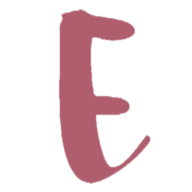
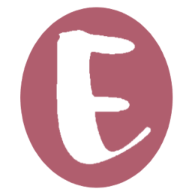
Updates
new favicon, updated resume

diff --git a/css/resume.min.css b/css/resume.min.css
@@ -2,4 +2,4 @@
  * Start Bootstrap - Resume v5.0.6 (https://startbootstrap.com/template-overviews/resume)
  * Copyright 2013-2019 Start Bootstrap
  * Licensed under MIT (https://github.com/BlackrockDigital/startbootstrap-resume/blob/master/LICENSE)
- */body{font-family:'Roboto Mono', 'Cutive Mono','Lucida Console',Monaco,monospace;font-size:1.2rem;padding-top:54px;color:#868e96}@media (min-width:992px){body{padding-top:0;padding-left:17rem}}h1,h2,h3,h4,h5{font-family:'Saira Extra Condensed',-apple-system,BlinkMacSystemFont,'Segoe UI',Roboto,'Helvetica Neue',Arial,sans-serif,'Apple Color Emoji','Segoe UI Emoji','Segoe UI Symbol','Noto Color Emoji';font-weight:700;text-align:center;color:#343a40}h6{font-family:'Cutive Mono', monospace;font-weight:700;text-align:left;text-transform:lowercase;color:#5b4f53;font-size:1.75rem;}h1{font-size:6rem;line-height:5.5rem}h2{font-size:3.5rem}h3{font-size:2rem}.icon{font-size: 1.4rem;color:#369c88;}p.lead{font-size:1.15rem;font-weight:400}.accent{color: #369c88;}.main{color: #9c364a;}.subheading{color:#5b4f53;text-transform:uppercase;font-weight:500;font-family:'Saira Extra Condensed',-apple-system,BlinkMacSystemFont,'Segoe UI',Roboto,'Helvetica Neue',Arial,sans-serif,'Apple Color Emoji','Segoe UI Emoji','Segoe UI Symbol','Noto Color Emoji';font-size:2rem}.social-icons a{display:inline-block;height:3.5rem;width:3.5rem;background-color:#495057;color:#fff!important;border-radius:100%;text-align:center;font-size:1.5rem;line-height:3.5rem;margin-right:1rem}.social-icons a:last-child{margin-right:0}.social-icons a:hover{background-color:#369c88}.dev-icons{font-size:3rem}.dev-icons .list-inline-item i:hover{color:#369c88}#sideNav .navbar-nav .nav-item .nav-link{font-weight:800;letter-spacing:.05rem;text-transform:uppercase}#sideNav .navbar-toggler:focus{outline-color:#B05E6E}@media (min-width:992px){#sideNav{text-align:center;position:fixed;top:0;left:0;display:-webkit-box;display:-ms-flexbox;display:flex;-webkit-box-orient:vertical;-webkit-box-direction:normal;-ms-flex-direction:column;flex-direction:column;width:17rem;height:100vh}#sideNav .navbar-brand{display:-webkit-box;display:-ms-flexbox;display:flex;margin:auto auto 0;padding:.5rem}#sideNav .navbar-brand .img-profile{max-width:10rem;max-height:10rem;border:.5rem solid rgba(255,255,255,.2)}#sideNav .navbar-collapse{display:-webkit-box;display:-ms-flexbox;display:flex;-webkit-box-align:start;-ms-flex-align:start;align-items:flex-start;-webkit-box-flex:0;-ms-flex-positive:0;flex-grow:0;width:100%;margin-bottom:auto}#sideNav .navbar-collapse .navbar-nav{-webkit-box-orient:vertical;-webkit-box-direction:normal;-ms-flex-direction:column;flex-direction:column;width:100%}#sideNav .navbar-collapse .navbar-nav .nav-item{display:block}#sideNav .navbar-collapse .navbar-nav .nav-item .nav-link{display:block}}section.resume-section{padding-top:5rem!important;padding-bottom:5rem!important;max-width:75rem}section.resume-section .resume-item .resume-date{min-width:none}@media (min-width:768px){section.resume-section{min-height:100vh}section.resume-section .resume-item .resume-date{min-width:18rem}}@media (min-width:992px){section.resume-section{padding-top:3rem!important;padding-bottom:3rem!important}}.bg-primary{background-color:#9c364a!important}.text-primary{color:#9c364a!important}a{color:#9c364a}a:active,a:focus,a:hover{color:#f95777}
+ */body{font-family:'Roboto Mono', 'Cutive Mono','Lucida Console',Monaco,monospace;font-size:1.2rem;padding-top:54px;color:#868e96}@media (min-width:992px){body{padding-top:0;padding-left:17rem}}h1,h2,h3,h4,h5{font-family:'Saira Extra Condensed',-apple-system,BlinkMacSystemFont,'Segoe UI',Roboto,'Helvetica Neue',Arial,sans-serif,'Apple Color Emoji','Segoe UI Emoji','Segoe UI Symbol','Noto Color Emoji';font-weight:700;text-align:center;color:#343a40}h6{font-family:'Cutive Mono', monospace;font-weight:700;text-align:left;text-transform:lowercase;color:#5b4f53;font-size:1.75rem;}h1{font-size:6rem;line-height:5.5rem}h2{font-size:3.5rem}h3{font-size:2rem}.icon{font-size: 1.4rem;color:#369c88;}p.lead{font-size:1.15rem;font-weight:400}.accent{color: #369c88;}.main{color: #9c364a;}.subheading{color:#5b4f53;text-transform:uppercase;font-weight:500;font-family:'Saira Extra Condensed',-apple-system,BlinkMacSystemFont,'Segoe UI',Roboto,'Helvetica Neue',Arial,sans-serif,'Apple Color Emoji','Segoe UI Emoji','Segoe UI Symbol','Noto Color Emoji';font-size:2rem}.social-icons a{display:inline-block;height:3.5rem;width:3.5rem;background-color:#495057;color:#fff!important;border-radius:100%;text-align:center;font-size:1.5rem;line-height:3.5rem;margin-right:1rem}.social-icons a:last-child{margin-right:0}.social-icons a:hover{background-color:#369c88}.dev-icons{font-size:3rem}.dev-icons .list-inline-item i:hover{color:#369c88}#sideNav .navbar-nav .nav-item .nav-link{font-weight:800;letter-spacing:.05rem;text-transform:uppercase}#sideNav .navbar-toggler:focus{outline-color:#B05E6E}@media (min-width:992px){#sideNav{text-align:center;position:fixed;top:0;left:0;display:-webkit-box;display:-ms-flexbox;display:flex;-webkit-box-orient:vertical;-webkit-box-direction:normal;-ms-flex-direction:column;flex-direction:column;width:17rem;height:100vh}#sideNav .navbar-brand{display:-webkit-box;display:-ms-flexbox;display:flex;margin:auto auto 0;padding:.5rem}#sideNav .navbar-brand .img-profile{max-width:10rem;max-height:10rem;border:.5rem solid rgba(255,255,255,.2)}#sideNav .navbar-collapse{display:-webkit-box;display:-ms-flexbox;display:flex;-webkit-box-align:start;-ms-flex-align:start;align-items:flex-start;-webkit-box-flex:0;-ms-flex-positive:0;flex-grow:0;width:100%;margin-bottom:auto}#sideNav .navbar-collapse .navbar-nav{-webkit-box-orient:vertical;-webkit-box-direction:normal;-ms-flex-direction:column;flex-direction:column;width:100%}#sideNav .navbar-collapse .navbar-nav .nav-item{display:block}#sideNav .navbar-collapse .navbar-nav .nav-item .nav-link{display:block}}section.resume-section{padding-top:5rem!important;padding-bottom:5rem!important;max-width:75rem}section.resume-section .resume-item .resume-date{min-width:none}@media (min-width:768px){section.resume-section{min-height:100vh}section.resume-section .resume-item .resume-date{min-width:18rem}}@media (min-width:992px){section.resume-section{padding-top:3rem!important;padding-bottom:3rem!important}}.bg-primary{background-color:#9c364a!important}.text-primary{color:#9c364a!important}a{color:#9c364a}a:active,a:focus,a:hover{color:#f95777}.typewriter {overflow: hidden; /* hide letters */border-right: .1em solid transparent; /* cursor */white-space: nowrap;animation:typing 3s steps(15, end),blinking .5s step-end 6;}@keyframes typing {0% {width: 0;}25% {width:4em;}55% {width:4em;}85% {width:11em;}100% {width: 11em;}}.typewriter1 {overflow: hidden; /* hide letters */border-right: .05em solid transparent; /* cursor */white-space: nowrap;padding-bottom: .5rem;animation-delay: 3s;animation: typing1 3s 3.5s steps(22, end) backwards,blinking .5s 3.5s step-end 6;}@keyframes typing1 {from {width:0}to {width:50%}}@keyframes blinking {from, to {border-color: transparent;}50% {border-color: #9c364a;}}

diff --git a/index.html b/index.html
@@ -24,6 +24,7 @@
   <link href="css/resume.min.css" rel="stylesheet">
   <link href="open-iconic-master/font/css/open-iconic-bootstrap.css" rel="stylesheet">
 
+  <!-- TODO: update favicon -->
   <!-- Favicons -->
   <link rel="apple-touch-icon" sizes="180x180" href="img/apple-touch-icon.png">
   <link rel="icon" type="image/png" sizes="32x32" href="img/favicon-32x32.png">
@@ -73,15 +74,13 @@
 
     <section class="resume-section p-3 p-lg-5 d-flex align-items-center" id="about">
       <div class="w-100">
-        <h6>
-          <img class="float-right" src="img/profimg.png" alt="" width="27.5%" onmouseover="this.src='img/profimg1.png';" onmouseout="this.src='img/profimg.png';">
-          Hello, my name is </h6>
-        <h1 style="text-transform: lowercase; text-align: left; color: #369c88">Elizabeth Gonzalez.
-        </h1>
+        <img class="float-right" src="img/profimg.png" alt="" width="27.5%" onmouseover="this.src='img/profimg1.png';" onmouseout="this.src='img/profimg.png';">
+        <h6 class="typewriter">Hello, my name is </h6>
+        <h1 class= "typewriter1" style="text-transform: lowercase; text-align: left; color: #369c88;">Elizabeth Gonzalez.</h1>
         <div class="subheading mb-5" style="text-transform: lowercase; color: #9c364a">
           <span class="accent">USC Class of 2022 </span> · Computer Science/Business Administration
         </div>
-        <p class="lead mb-5 text-monospace"style="font-size: 1.3rem;">I believe in empowering underrepresented communities and bettering myself in my undergrad career through my involvement with various orgs like AthenaHacks, Hermanas Unidas, and the Society of Hispanic Professional Engineers.</p>
+        <p class="lead mb-5 text-monospace"style="font-size: 1.3rem;">I believe in empowering underrepresented communities and bettering myself in my undergrad career through my involvement with various student organizations like AthenaHacks, Hermanas Unidas, and the Society of Hispanic Professional Engineers.</p>
         <div class="social-icons">
           <a href="https://linkedin.com/in/e-gonzalez-00/" target="_blank">
             <i class="fab fa-linkedin-in"></i>
@@ -109,7 +108,7 @@
           <div class="resume-content">
             <h3 class="mb-0 text-md-left main">Girls Who Code</h3>
             <div class="subheading mb-3 main">Teaching Assistant</div>
-            <p class="text-monospace">I am a TA for the Girls Who Code Summer Immersion Program located at Warner Bros in Burbank.</p>
+            <p>As a TA for the Girls Who Code Summer Immersion Program (located at Warner Bros. in Burbank), I guided a class of twenty girls, teaching them the basics of computer science using languages and programs like Scratch, Python, Arduino C, HTML, CSS, and JavaScript. This work was meaningful for me because I get to guide the next wave of computer scientists. The girls I taught were passionate, brave, and ready to take on the gender gap. I'm proud to have had a hand in their journey into tech.</p>
           </div>
           <div class="resume-date text-md-right">
             <span class="text-primary">June 2019 - August 2019</span>

diff --git a/css/resume.css b/css/resume.css
@@ -213,3 +213,41 @@ a {
 a:hover, a:focus, a:active {
   color: #824027;
 }
+
+.typewriter {
+  overflow: hidden; /* hide letters */
+  border-right: .1em solid transparent; /* cursor */
+  white-space: nowrap;
+  animation:
+  typing 3s steps(15, end),
+  blinking .5s step-end 6;
+}
+
+@keyframes typing {
+  0% {width: 0;}
+  25% {width:4em;}
+  55% {width:4em;}
+  85% {width:11em;}
+  100% {width: 11em;}
+}
+
+.typewriter1 {
+  overflow: hidden; /* hide letters */
+  border-right: .05em solid transparent; /* cursor */
+  white-space: nowrap;
+  padding-bottom: .5rem;
+  animation-delay: 3s;
+  animation:
+  typing1 3s 3.5s steps(22, end) backwards,
+  blinking .5s 3.5s step-end 6;
+}
+
+@keyframes typing1 {
+  from {width:0}
+  to {width:50%}
+}
+
+@keyframes blinking {
+  from, to {border-color: transparent}
+  50% {border-color: #9c364a;}
+}
